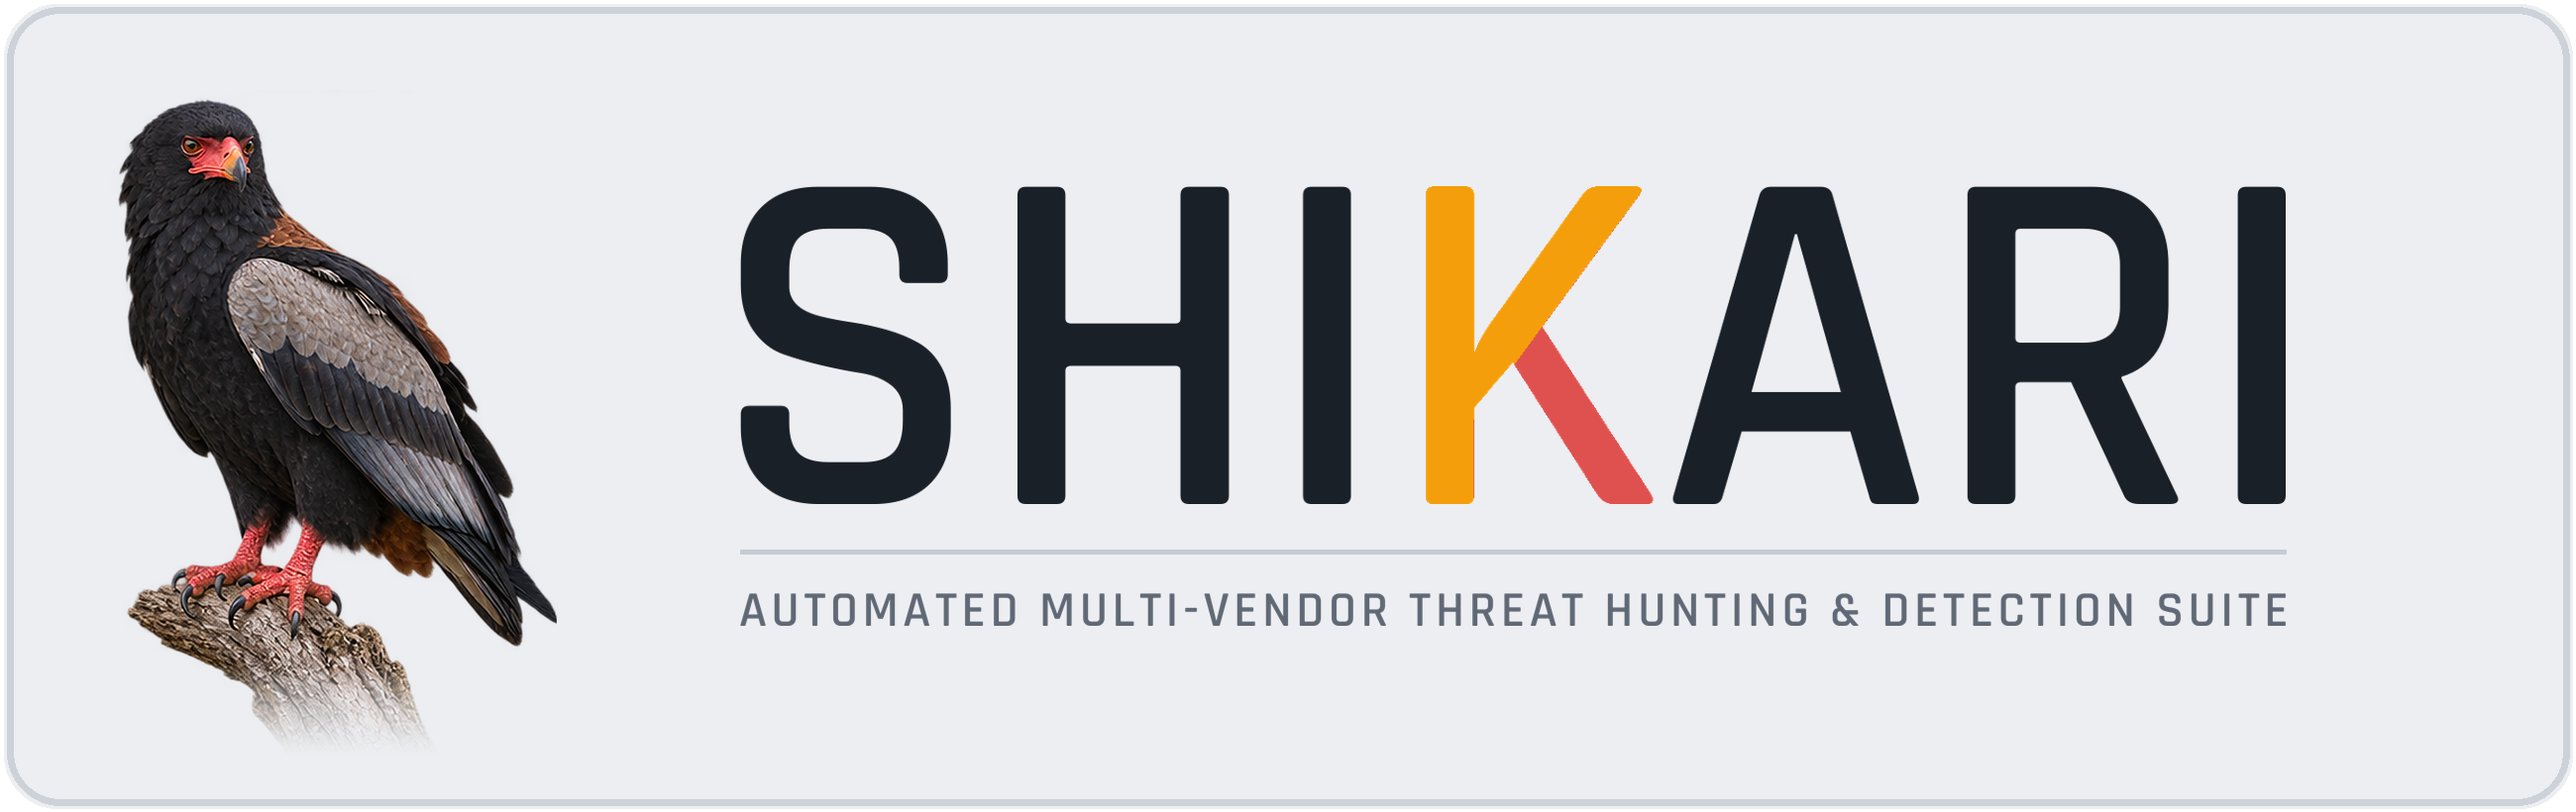
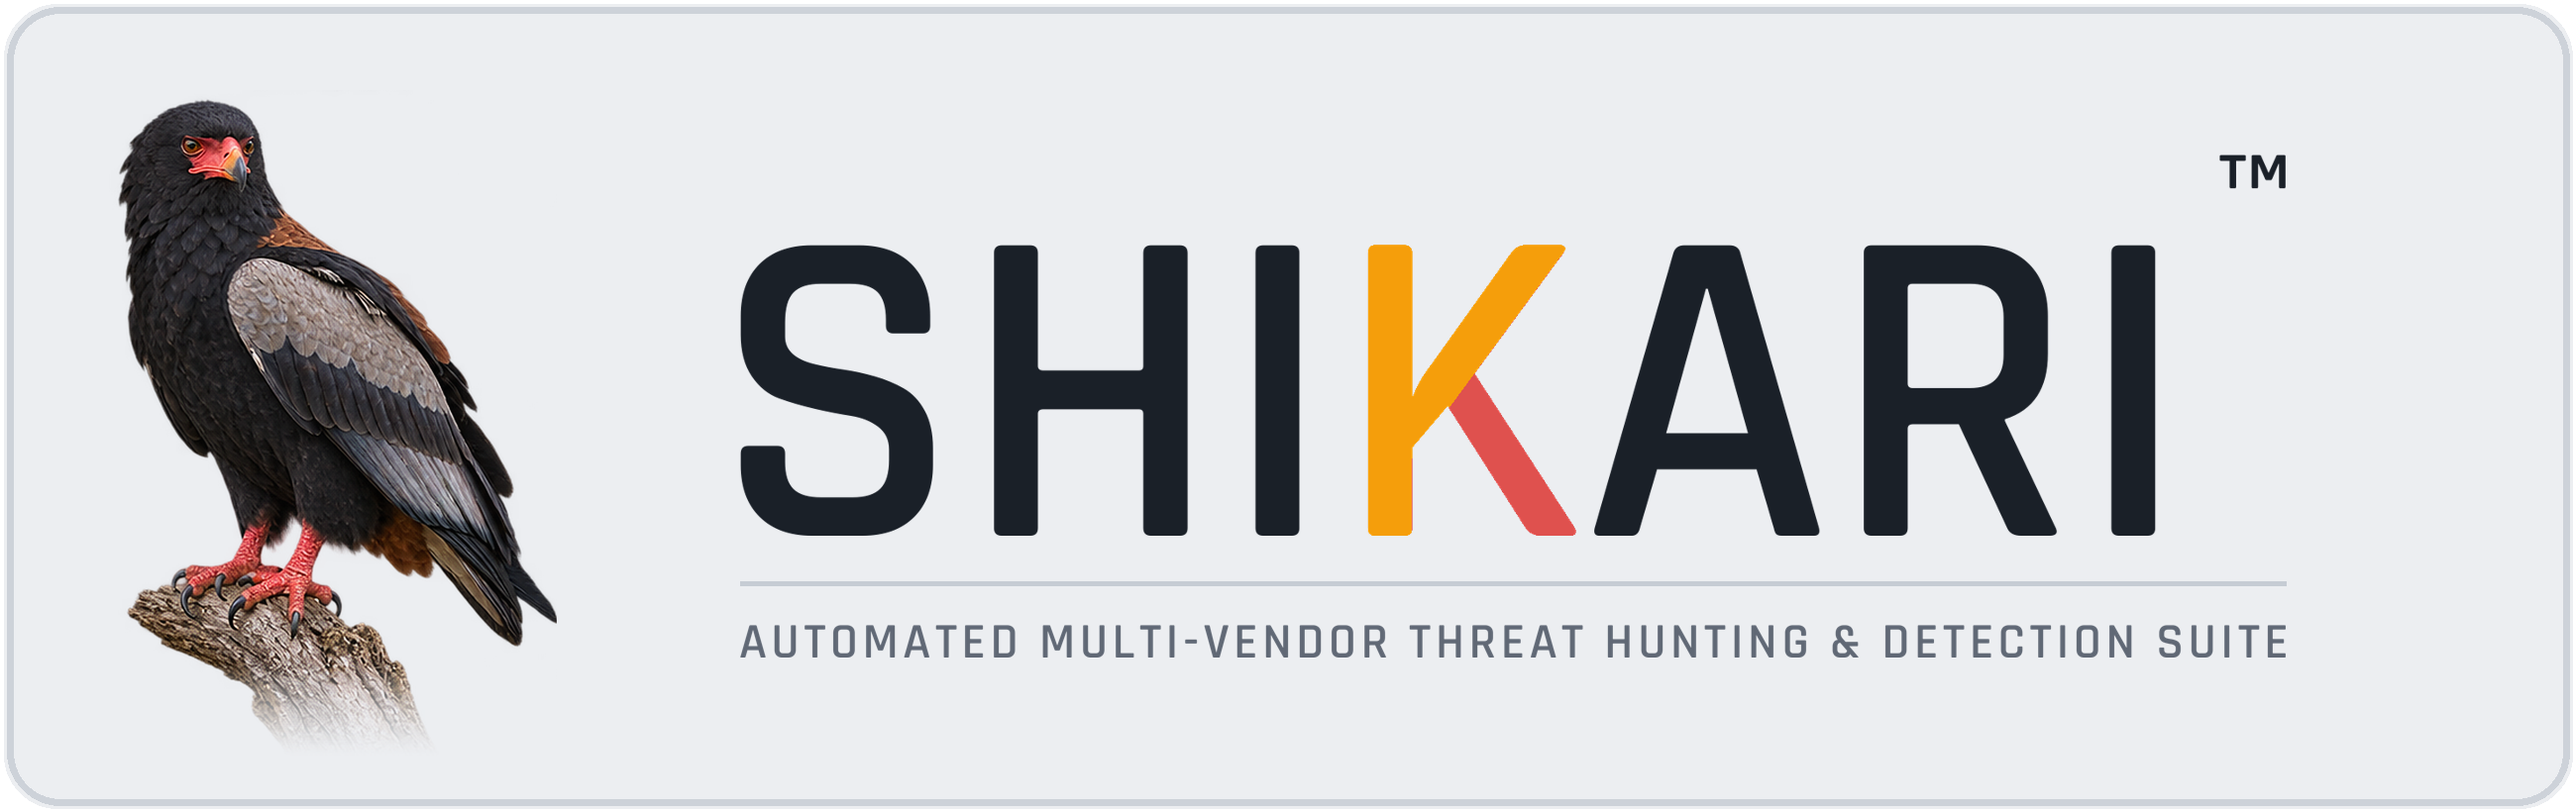
brand(tm): assert the Shikari™ trademark — ™ on the wordmark and a notice
wordmark.py draws a superscript ™ after the word, so it flows into every generated asset (the
two wordmarks, the nav banner and the six lockups). A trademark notice in the README licence
section and the app footer, ™ on the README's first mention and the desktop splash. The AGPL
covers the code, not the name or logo.

Claude-Session: https://claude.ai/code/session_01TdsyJetyUg47VEaPT4e1MR

Changed region(s): [[0.2804, 0.1829, 0.9035, 0.8232]]

diff --git a/templates/base.html b/templates/base.html
@@ -102,7 +102,7 @@
       <div class="footer-gloss"><span class="fg-word">shi·ka·ri</span><span class="fg-ipa">\shi-ˈkär-ē\</span><span class="fg-def">a professional big-game hunter or guide</span></div>
       <div class="timestamp">
         <span style="font-size: 0.85em; opacity: 0.7; display: block;">
-          Splunk®, Microsoft®, Google® and Elastic® names and logos are trademarks of their respective companies.
+          Shikari™ and the Shikari bateleur logo are trademarks of cmdaltr. Splunk®, Microsoft®, Google® and Elastic® names and logos are trademarks of their respective companies.
         </span>
       </div>
     </footer>

diff --git a/scripts/brand/wordmark.py b/scripts/brand/wordmark.py
@@ -66,25 +66,34 @@ def k_split(kmask):
     return gold, red
 
 
-def render(ttf, size, bg=None, letter=(255, 255, 255, 255), pad=40, track=0):
+def render(ttf, size, bg=None, letter=(255, 255, 255, 255), pad=40, track=0, tm=True):
     font = ImageFont.truetype(str(ttf), size)
     # layout width with optional tracking
     tmp = Image.new("RGBA", (10, 10)); td = ImageDraw.Draw(tmp)
     widths = [td.textlength(ch, font=font) for ch in WORD]
     total = sum(widths) + track * (len(WORD) - 1)
     asc, desc = font.getmetrics()
-    Wc = int(total) + 2 * pad
+    # A superscript ™ after the last letter, in the letter colour: ~0.3x the caps, set to the cap
+    # line so it reads as a trademark mark without crowding the word. Widen the canvas to hold it.
+    tm_font = ImageFont.truetype(str(ttf), max(8, int(size * 0.30))) if tm else None
+    tm_w = int(td.textlength("™", font=tm_font)) if tm else 0
+    tm_gap = int(size * 0.05) if tm else 0
+    Wc = int(total) + 2 * pad + tm_w + tm_gap
     Hc = asc + desc + 2 * pad
     img = Image.new("RGBA", (Wc, Hc), (0, 0, 0, 0))
     d = ImageDraw.Draw(img)
     # draw each glyph at tracked positions, white
     x = pad
     kx = None
+    last_right = pad
     for ch, w in zip(WORD, widths):
         d.text((x, pad), ch, font=font, fill=letter)
         if ch == "K" and kx is None:
             kx = x
+        last_right = x + w
         x += w + track
+    if tm:
+        d.text((last_right + tm_gap, pad), "™", font=tm_font, fill=letter)
     # K-only mask at same position
     kimg = Image.new("RGBA", (Wc, Hc), (0, 0, 0, 0))
     ImageDraw.Draw(kimg).text((kx, pad), "K", font=font, fill=(255, 255, 255, 255))

diff --git a/shikari/desktop.py b/shikari/desktop.py
@@ -60,7 +60,7 @@ body{display:flex;flex-direction:column;align-items:center;justify-content:cente
 .gloss{position:fixed;bottom:22px;font-size:14.3px;opacity:.7}
 .title{position:relative}.bird{position:absolute;left:50%;bottom:100%;transform:translateX(calc(-50% - 10px));margin-bottom:28px;width:520px;max-width:90vw;max-height:calc(50vh - 120px);object-fit:contain;object-position:bottom;pointer-events:none}.gloss b{font-weight:600}.gloss i{margin:0 8px;opacity:.8}
 </style></head>
-<body><div class="title">__BIRD__Starting Shikari&hellip;</div><div class="bar"><i></i></div>
+<body><div class="title">__BIRD__Starting Shikari&trade;&hellip;</div><div class="bar"><i></i></div>
 <div class="step"><span id="step">Getting ready</span> &middot; <span id="elapsed">0:00</span></div>
 <p class="note">The first start takes a few minutes while Shikari unpacks MITRE ATT&amp;CK and builds its
 database. After that it starts in seconds.</p>

diff --git a/README.md b/README.md
@@ -1,12 +1,12 @@
 <div align="center">
 <a href="https://github.com/cmdaltr/shikari">
-<img src="static/images/shikari/shikari-lockup-perched-light.png" alt="Shikari - Automated Multi-Vendor Threat Hunting & Detection Suite" width="620px">
+<img src="static/images/shikari/shikari-lockup-perched-light.png" alt="Shikari™ - Automated Multi-Vendor Threat Hunting & Detection Suite" width="620px">
 </a>
 </div>
 
 <br>
 
-Shikari automates threat hunting and detection engineering from MITRE ATT&CK. Give it a threat group, CVE or threat report and it generates, validates and correlates detections for Google SecOps (YARA-L), Microsoft Defender (KQL) and Elastic (ES\|QL), with coverage mapping, attack flows and MITRESaw procedure intel. AI is optional.
+Shikari™ automates threat hunting and detection engineering from MITRE ATT&CK. Give it a threat group, CVE or threat report and it generates, validates and correlates detections for Google SecOps (YARA-L), Microsoft Defender (KQL) and Elastic (ES\|QL), with coverage mapping, attack flows and MITRESaw procedure intel. AI is optional.
 
 **🧭 How Shikari compares to other detection tooling: [COMPARISON.md](COMPARISON.md)**
 
@@ -337,3 +337,5 @@ Copyright (C) 2025-2026 cmdaltr.
 Shikari is free software under the [GNU Affero General Public License v3.0](LICENSE) (AGPL-3.0-only): you can use, study, change and share it, and if you change it and let others use it, over a network included, you must make your changed source available to them under the same licence.
 
 Organisations that can't meet the AGPL's terms, for example to keep changes private or to build Shikari into a closed product, can get a commercial licence instead: contact @cmdaltr on GitHub.
+
+**Shikari™** and the Shikari bateleur logo are trademarks of cmdaltr. The AGPL covers the software; it does not grant any right to use the Shikari name or logo, whether to brand a fork or otherwise.
